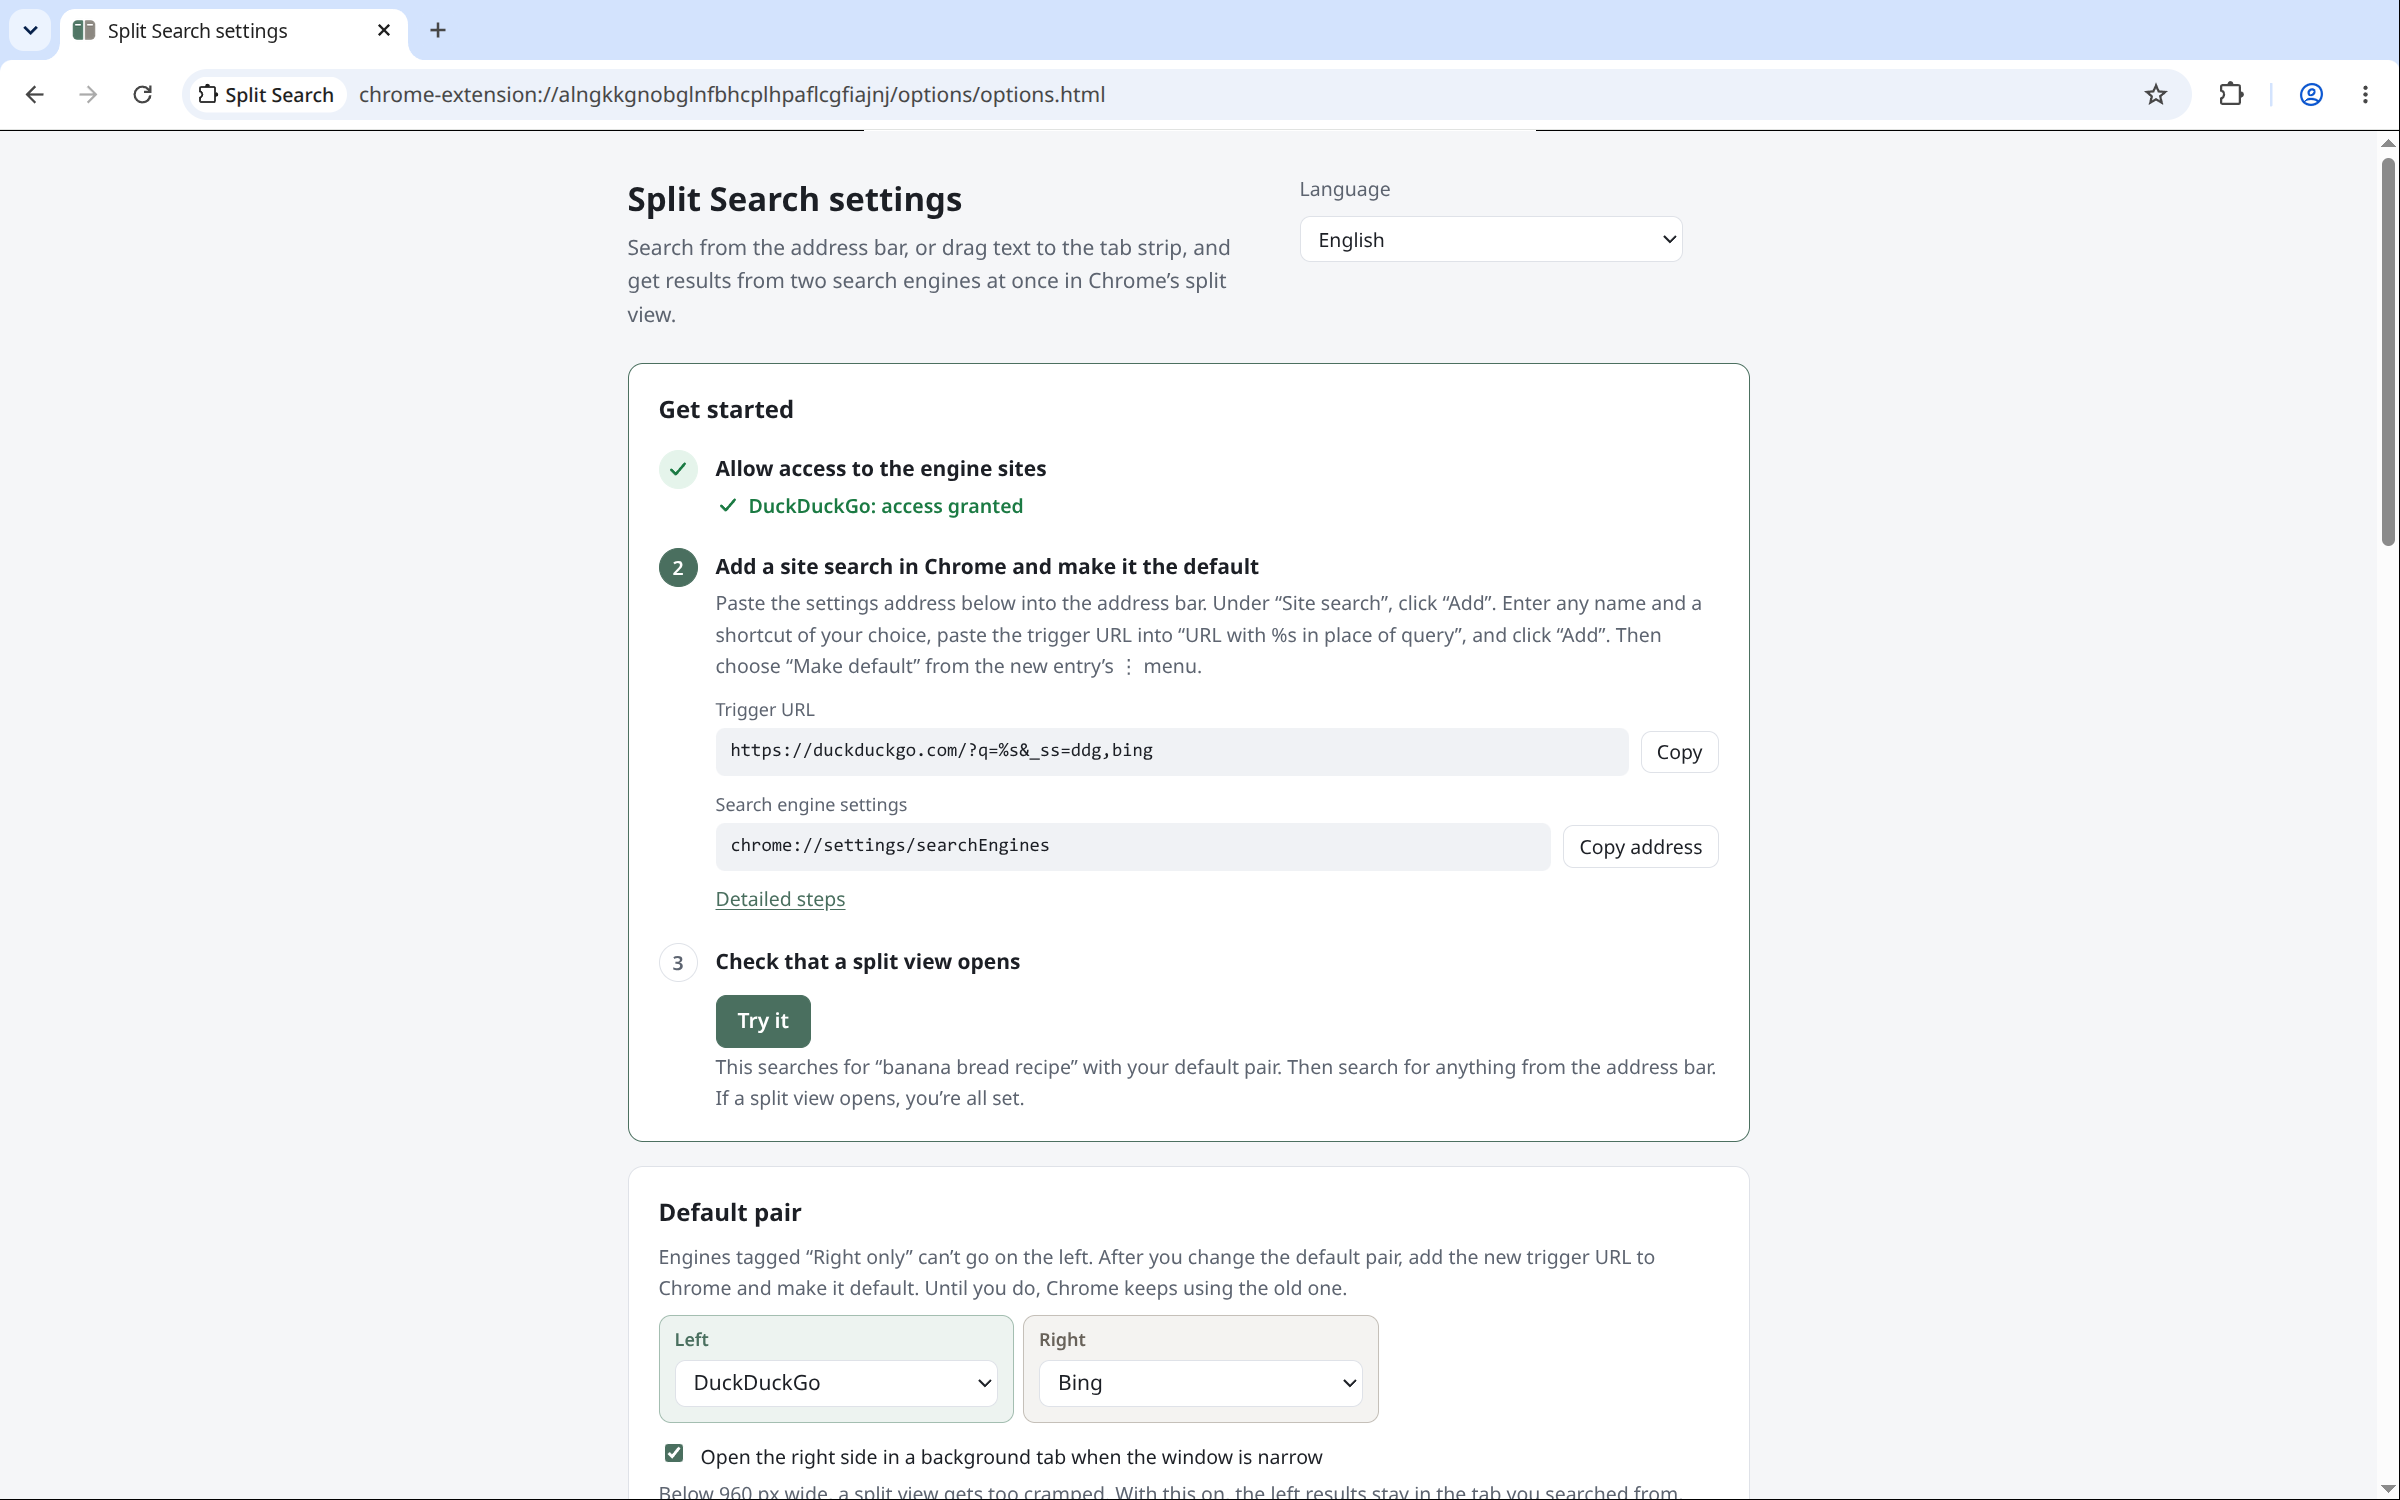
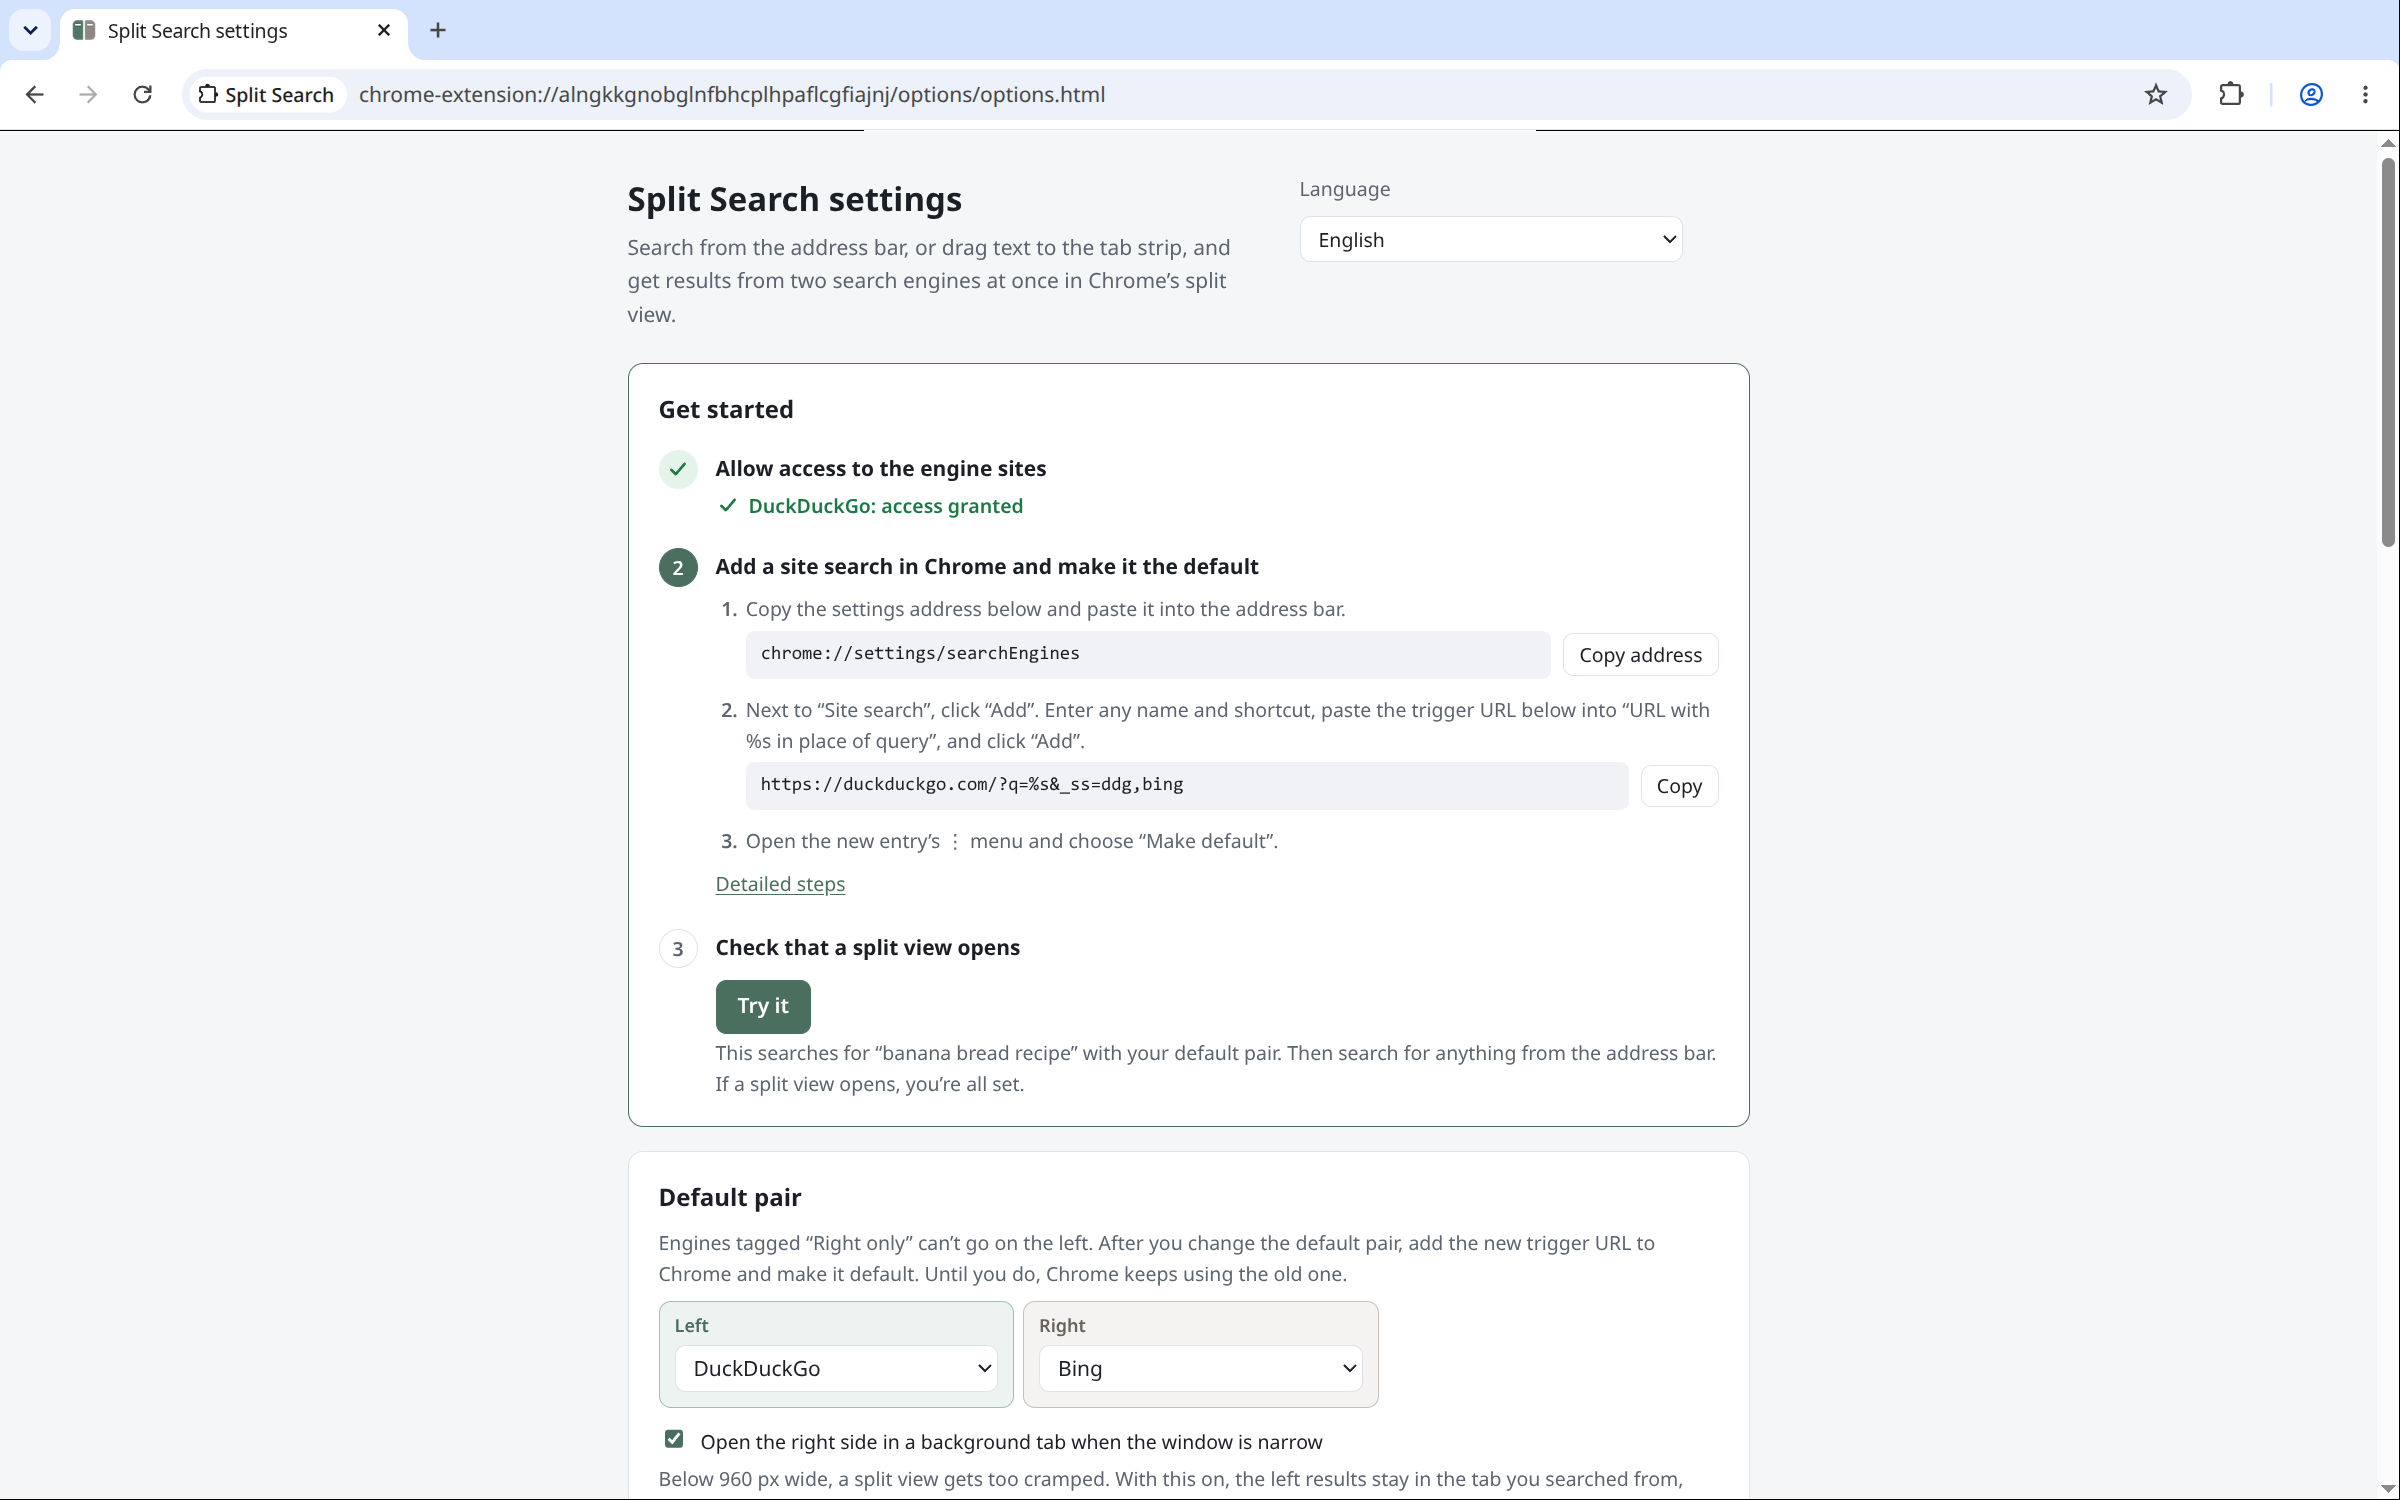
chore(assets): re-shoot the en settings screenshots for the step 2 sub-steps
options-top and options-fullpage show the new Get started step 2. options-engines differs only in anti-aliasing and is kept; the rendered store images use only that one, so they are unchanged.

Claude-Session: https://claude.ai/code/session_01QAFczmx2FRoPgu46A1z6D9

Changed region(s): [[0.2812, 0.3987, 0.7188, 0.736], [0.2812, 0.7973, 0.7188, 1.0]]

diff --git a/assets/raw/captions.md b/assets/raw/captions.md
@@ -72,9 +72,9 @@ convert drag-to-tabstrip.png \
 
 | 文件 | 内容 |
 |---|---|
-| `en/options-top.png` | 设置页首屏（英文界面，2026-10-26 重拍，见下文“设置页三张的重拍”）：标题、语言下拉框、“Get started”卡（第 1 步“DuckDuckGo: access granted”，第 2 步里的触发网址 `https://duckduckgo.com/?q=%s&_ss=ddg,bing`，第 3 步“Try it”）、“Default pair”卡开头的左右两个窗格 |
+| `en/options-top.png` | 设置页首屏（英文界面，2026-10-26 重拍，见下文“设置页三张的重拍”）：标题、语言下拉框、“Get started”卡（第 1 步“DuckDuckGo: access granted”，第 2 步的三个编号小步：`chrome://settings/searchEngines` 带“Copy address”、触发网址 `https://duckduckgo.com/?q=%s&_ss=ddg,bing` 带“Copy”、在 ⋮ 菜单里选“Make default”，第 3 步“Try it”）、“Default pair”卡开头的左右两个窗格 |
 | `en/options-engines.png` | 设置页滚动到“Search engines”卡片，卡片上缘在视口顶下 8 CSS 像素（原图 y≈143）；五个引擎都是“Access granted”，DuckDuckGo、Bing 带“Default left/Default right”和“默认组合在用，不能隐藏”的说明，说明只占一行（2026-10-26 第二次重拍） |
-| `en/options-fullpage.png` | 设置页整页（CDP `Page.captureScreenshot`），2376×4652（2026-10-26 第二次重拍） |
+| `en/options-fullpage.png` | 设置页整页（CDP `Page.captureScreenshot`），2376×4637（2026-10-26 第三次重拍） |
 | `en/split-ddg-bing-rust.png` | 新标签打开触发网址 `https://duckduckgo.com/?q=rust+programming&_ss=ddg,bing`，扩展建成 DuckDuckGo ｜ Bing 拆分视图；标签栏里是“Split Search settings”和两个分屏标签 |
 | `en/drag-to-tabstrip.png` | 英文维基百科“Rust (programming language)”，在正文“Software developer Graydon Hoare created Rust…”里选中“Graydon Hoare”（不是链接），用 xdotool 真实按下拖到标签栏空白处（落点 1460,30），没松手时截图。第一个标签旁同样有 Xvfb 下的黑底插入箭头（397,61），商店截图 3（v2）的裁切包含它，用 `en/patches/` 的修补图盖掉（见“修补”） |
 | `en/drag-result-split.png` | 松手后：默认搜索引擎（触发网址）打开新标签，扩展建成 DuckDuckGo ｜ Bing 拆分视图，查询词“Graydon Hoare” |
@@ -96,5 +96,7 @@ convert drag-to-tabstrip.png \
 - 模板裁切随之改了：商店截图 4 是 `648,308,1120,600`，顶部宣传图是 `640,310,678,290`（见 `assets/templates-v2/README.md`）。
 
 第二次重拍（同一天，整体审查后的修正）：“不能隐藏”的说明放宽到一行（`options.css` 的 `.row-reason` 改为 `max-width: 56ch`），引擎卡片和整页随之变矮，所以重拍了这三张。用同一个脚本、同一套环境和状态（私有 Xvfb :131、全新临时配置、五个预置引擎在授权框里点“允许”、没有 `setupDone`），扩展是修正后的工作区。设置页的静态 HTML 这时已改成 `lang="en"`，不会再弹翻译气泡；关掉翻译的参数和 Preferences 仍然照旧加着。`options-top.png` 与上一版只差右边滚动条滑块（页面变矮了），画面内容相同；`options-engines.png` 里 DuckDuckGo、Bing 两行各矮了一行。重新渲染后只有商店截图 4 和顶部宣传图变了；商店截图 4 的裁切只到引擎行的左半边，说明文字在右半边、不在画面里，所以这两行的复选框下面仍有一行高的空白（比上一版少一行）。
+
+第三次重拍（2026-10-26，v0.4.0 打标签前的“开始使用”第 2 步改版）：第 2 步拆成三个编号小步（复制设置地址、粘贴触发网址、设为默认，每步只带自己的复制按钮），只有画面里有这张卡的 `options-top.png` 和 `options-fullpage.png` 换了。同一个脚本、同一套环境和状态（私有 Xvfb :131、全新临时配置、五个预置引擎在授权框里点“允许”、没有 `setupDone`）。`options-fullpage.png` 变成 2376×4637（第 2 步比原来的“说明 + 两个带标签的复制框”矮了一点）。`options-engines.png` 也重拍过对比：内容相同，只有文字抗锯齿的像素差（页面高度变了，滚动位置不同），所以保留上一版不换。商店图和宣传图只用 `options-engines.png`，重新渲染后没有变化。工具栏弹窗不在任何原始截图里，弹窗分屏外的三档不用补拍。
 
 每张都逐一看过：没有中文、没有账号头像（右上角是未登录的默认图标）、没有 Kagi 或其他网站的令牌、IP 和浏览历史。网页内容是网站当时实际返回的结果，没有改过。
